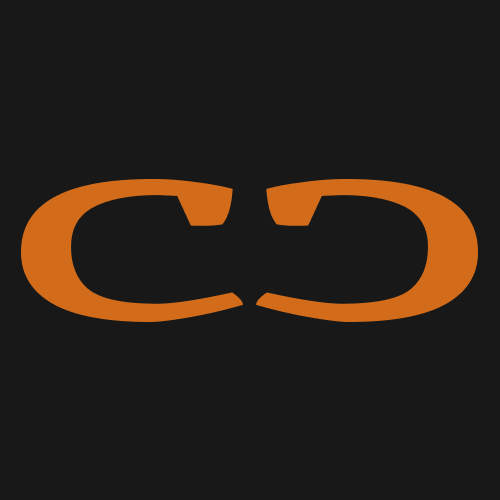
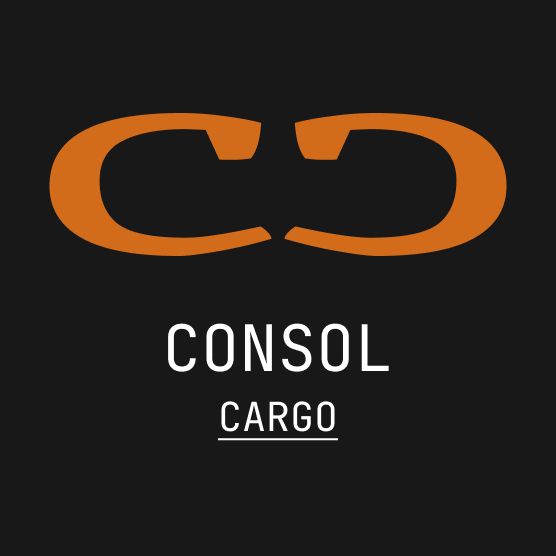
Update

Changed region(s): [[0.03, 0.18, 0.96, 0.69], [0.39, 0.72, 0.6, 0.81]]

diff --git a/app/components/Hero.js b/app/components/Hero.js
@@ -5,10 +5,13 @@ import TypewriterComponent from "./TypewriterComponent";
 
 const Hero = () => {
   return (
-    <section id="hero" className="flex flex-col md:flex-row items-center p-0 overflow-y-scroll md:overflow-hidden">
+    <section
+      id="hero"
+      className="flex flex-col md:flex-row items-center p-0 overflow-y-scroll md:overflow-hidden"
+    >
       <div className="hero-left w-full md:w-1/2 h-screen flex flex-col justify-between px-4 md:px-12 2xl:pl-40 pt-28 pb-16">
         <div className="left-top w-full h-[50vh] flex flex-col gap-4">
-          <h2 className="text-tertiary">cargo delivery</h2>
+          <h2 className="text-tertiary">Consol cargo</h2>
           <TypewriterComponent
             textLevel={"h2"}
             text={"Your partner in global shipping solutions"}

diff --git a/app/components/Header.js b/app/components/Header.js
@@ -9,11 +9,10 @@ const Header = () => {
           <Image
             src={"/images/logo.png"}
             alt="logo"
-            height={32}
-            width={32}
-            className="w-8 h-8"
+            height={100}
+            width={80}
+            // className=" h-10"
           />
-          <h3 className="space-grotesk hidden md:block">Consol cargo</h3>
         </Link>
         <div className="buttons flex items-center gap-8">
           <Button primary text="pricing" className="hidden md:flex" />

diff --git a/app/layout.js b/app/layout.js
@@ -41,7 +41,7 @@ export default function RootLayout({ children }) {
             </filter>
           </defs>
         </svg>
-        <Footer />
+        {/* <Footer /> */}
       </body>
     </html>
   );
